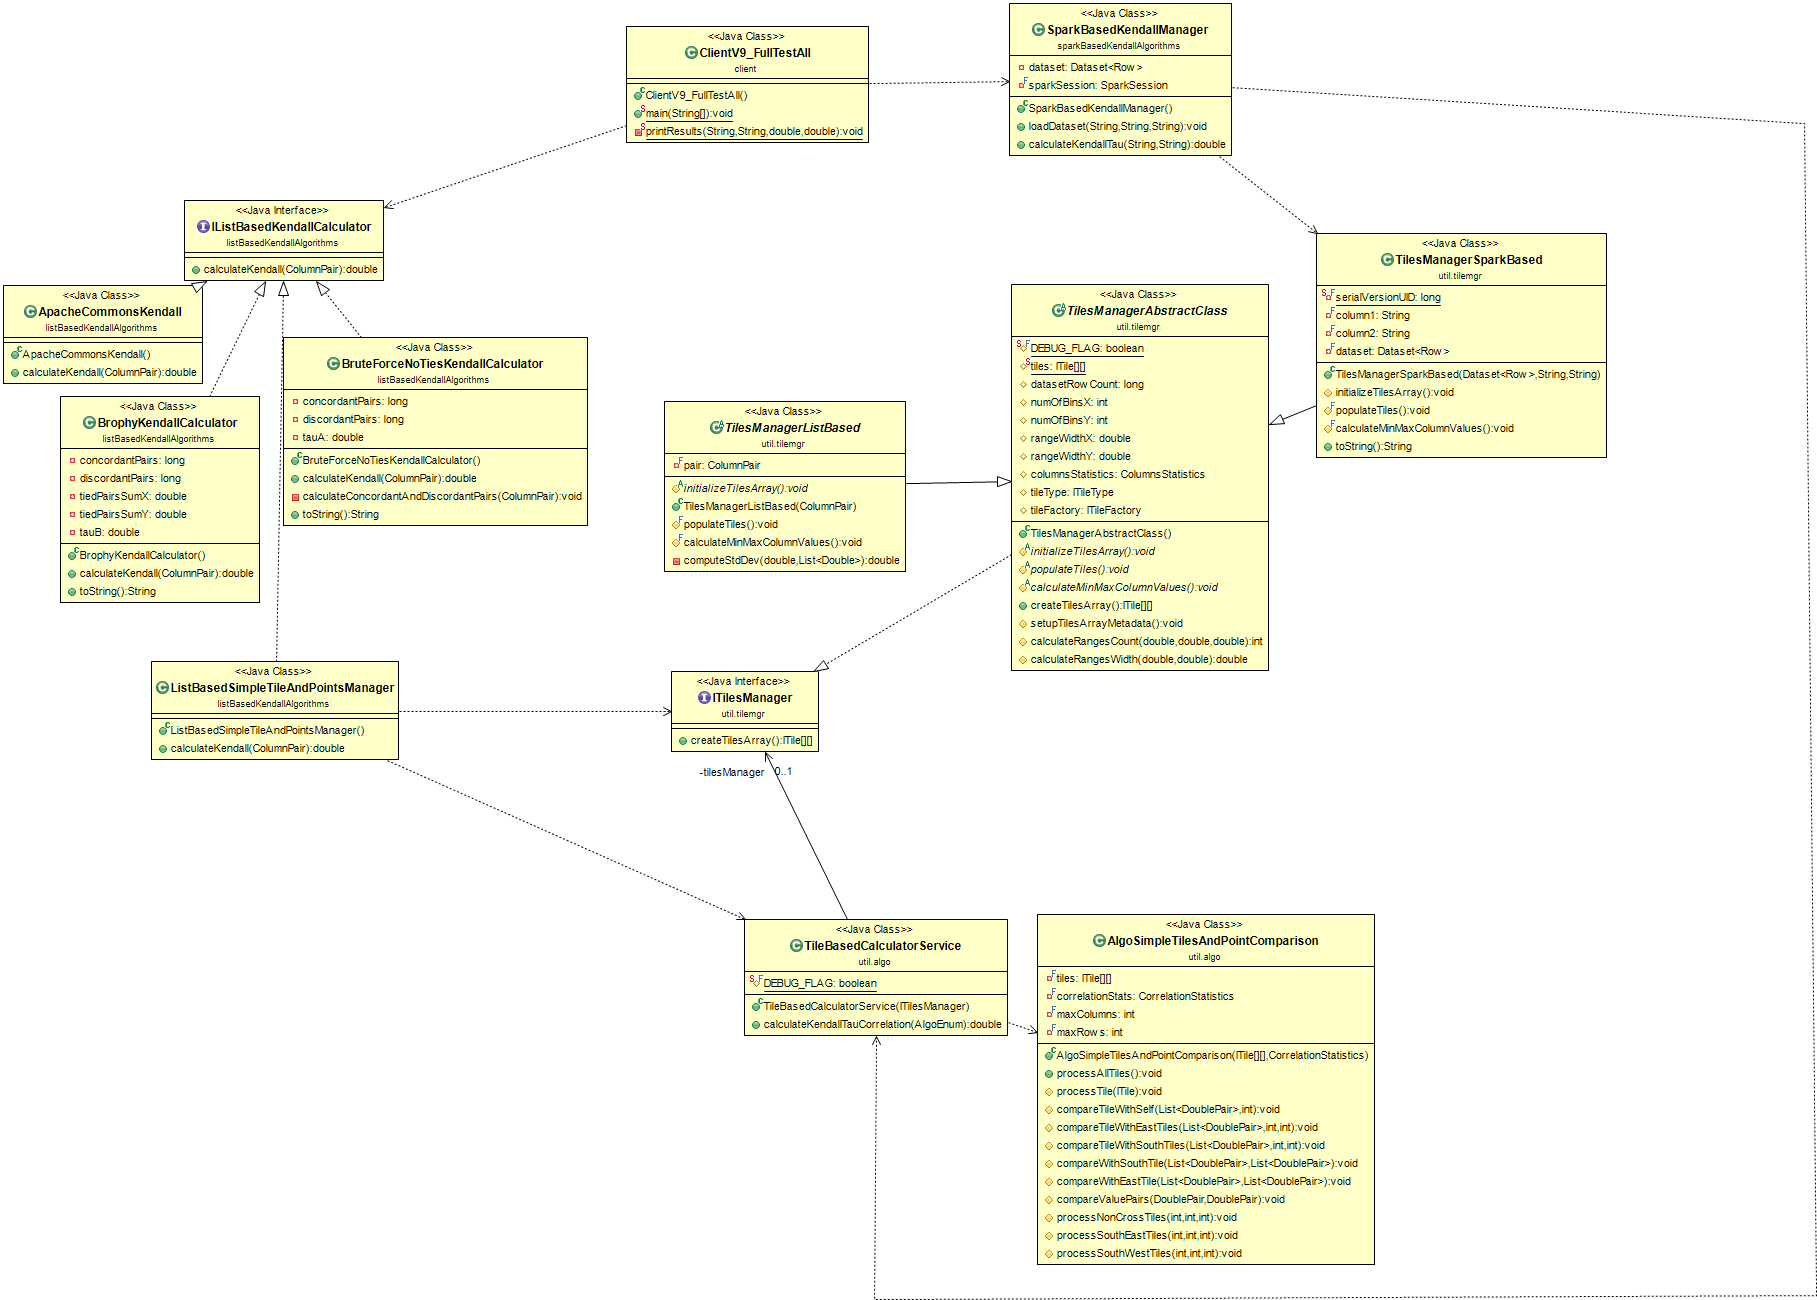
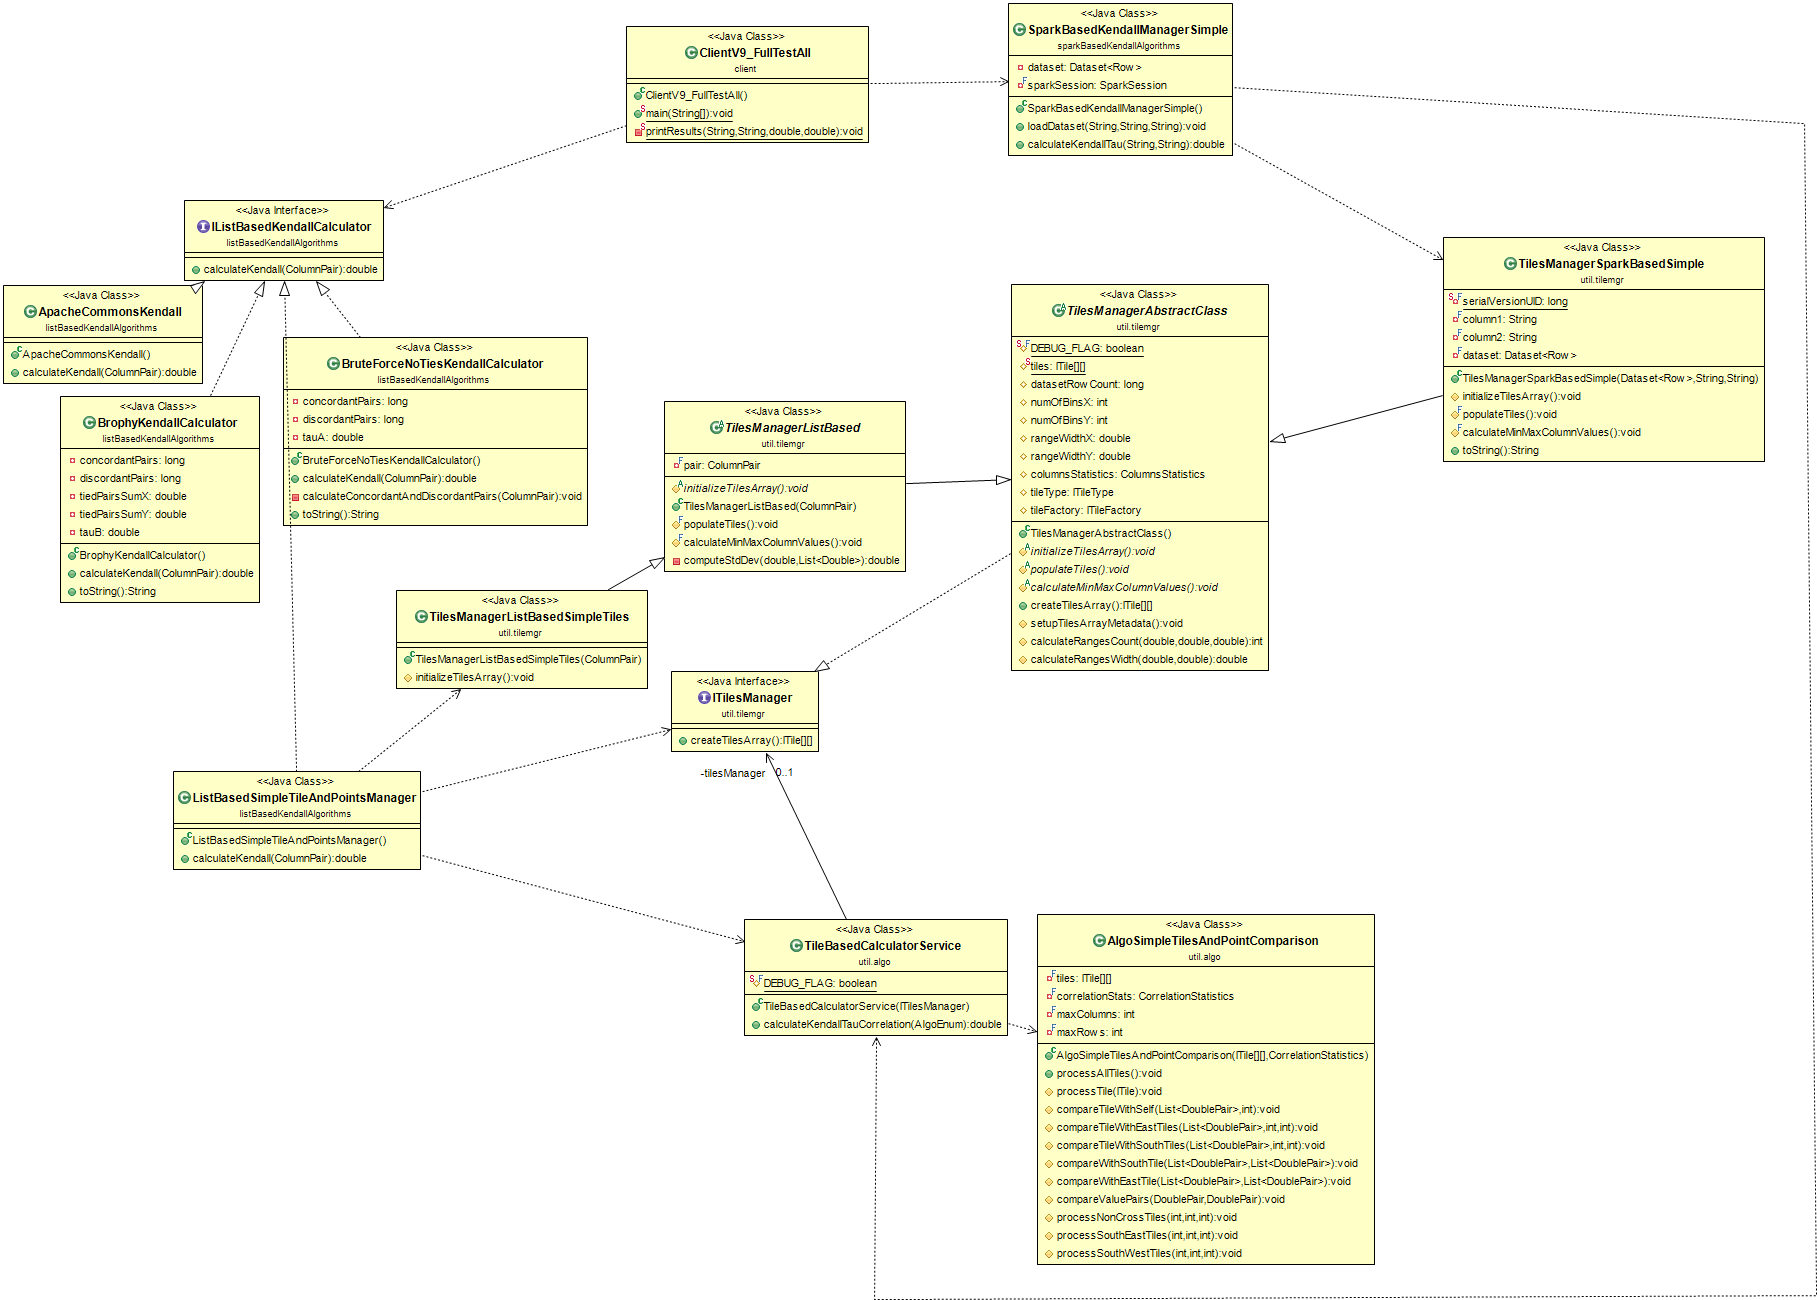
war for territory

diff --git a/src/main/java/client/ClientV1_ApacheVsSpark.java b/src/main/java/client/ClientV1_ApacheVsSpark.java
@@ -20,44 +20,53 @@ import java.util.Calendar;
 public class ClientV1_ApacheVsSpark {
     public static void main(String[] args) throws IOException, AnalysisException {
 
-        Reader reader = new Reader();
-
-        // manufacturer,model,year,price,transmission,mileage,fuelType,tax,mpg,engineSize
-        String filePath = "src\\test\\resources\\input\\cars_100k.csv";
-        String column1 = "mileage";
-        String column2 = "mpg";
+        //74001 tuples
+        String filePath = "src\\test\\resources\\input\\acs2017_census_tract_data.csv";
+        String column1 = "Hispanic";
+        String column2 = "Native";
         String delimiter = ",";
 
+        //74001 tuples
+//        String filePath = "src\\test\\resources\\input\\acs2017_census_tract_data.csv";
+//        String column1 = "Men";
+//        String column2 = "Women";
+//        String delimiter = ",";
+        
+        //108,539 tuples CARS_100K
+        // manufacturer,model,year,price,transmission,mileage,fuelType,tax,mpg,engineSize
+//        String filePath = "src\\test\\resources\\input\\cars_100k.csv";
+//        String column1 = "mileage";
+//        String column2 = "mpg";
+//        String delimiter = ",";
+        
+      //619,040 tuples
 //        String filePath = "src\\test\\resources\\input\\all_stocks_5yr.csv";
 //        String column1 = "low";
 //        String column2 = "high";
 //        String delimiter = ",";
-
+        
+        //619,040 tuples
 //        String filePath = "src\\test\\resources\\input\\all_stocks_5yr.csv";
 //        String column1 = "close";
 //        String column2 = "volume";
 //        String delimiter = ",";
 
-//        String filePath = "src\\test\\resources\\input\\flights5_7m.csv"; // 5.7 million rows
-//        String column1 = "FLIGHT_NUMBER";
-//        String column2 = "DEPARTURE_TIME";
-//        String delimiter = ",";
-
-//        String filePath = "src\\test\\resources\\input\\acs2017_census_tract_data.csv";
-//        String column1 = "Hispanic";
-//        String column2 = "Native";
-//        String delimiter = ",";
-
-//        String filePath = "src\\test\\resources\\input\\acs2017_census_tract_data.csv";
-//        String column1 = "Men";
-//        String column2 = "Women";
-//        String delimiter = ",";
-
+        //1,000,000 = 1 million tuples
 //        String filePath = "src\\test\\resources\\input\\Random1Mil.csv";
 //        String column1 = "X";
 //        String column2 = "Y";
 //        String delimiter = ",";
+        
+        //5,819,079 tuples
+//        String filePath = "src\\test\\resources\\input\\flights5_7m.csv"; // flight cancels 2015
+//        String column1 = "FLIGHT_NUMBER";
+//        String column2 = "DEPARTURE_TIME";
+//        String delimiter = ",";
 
+        // Get the Java runtime
+
+        checkMemory();
+        Reader reader = new Reader();        
         ColumnPair columnPair = reader.read(filePath, column1, column2, delimiter);
 
         long startTime = -1;
@@ -73,7 +82,7 @@ public class ClientV1_ApacheVsSpark {
         endTime = System.currentTimeMillis();
         elapsedTimeSeconds = (endTime - startTime) / 1000.0;
         printResults("Apache", filePath, apacheResult, elapsedTimeSeconds);
-
+        checkMemory();
         
         /* Tile Implementation with SPARK and valuePairs*/
 //        startTime = System.currentTimeMillis();
@@ -92,12 +101,11 @@ public class ClientV1_ApacheVsSpark {
 
         /* Tile Implementation with SPARK and stored tiles*/
         
-        /* Produces an out of memory error, as it opens one filewriter per tile.
+        /* Produces an out of memory error with many tiles (e.g., via Scott's rule)
+         * as it opens one filewriter per tile.
          * And we have thousands of tiles. 
-         * Is there any way to incrementally write each tile's tuples to a tile-dedicated file?*/
-        
-        startTime = System.currentTimeMillis();
-        
+         * If we fix the number of tiles to 100x100, it uses o(150MB) and works*/
+        startTime = System.currentTimeMillis();        
         String timeStamp = new SimpleDateFormat("yyyyMMdd_HHmmss").format(Calendar.getInstance().getTime());
         WriterSetup.OUTPUT_CUR_DIR = "try" + timeStamp + File.separator;
         System.err.println("Writing tiles at " + WriterSetup.getOutputExecDir());
@@ -113,7 +121,8 @@ public class ClientV1_ApacheVsSpark {
         endTime = System.currentTimeMillis();
         elapsedTimeSeconds = (endTime - startTime) / 1000.0;
         printResults("Spark Tiles", filePath, sparkTileKendallResult, elapsedTimeSeconds);
-
+        checkMemory();
+        
     }//end main
 
     private static void printResults(String methodName, String filePath, double kendallResult, double elapsedTimeSeconds) {
@@ -124,5 +133,22 @@ public class ClientV1_ApacheVsSpark {
         System.out.println(methodName+" elapsed time (sec):\t" + elapsedTimeSeconds + " seconds");
         System.out.println(" ----- \n");
 	}
+    
+    private static void checkMemory() {
+    	System.out.println("Calling garbageCollector");
+        Runtime runtime = Runtime.getRuntime();
+        runtime.gc();
+    	long total = runtime.totalMemory();
+    	long free = runtime.freeMemory();
+    	long usedMemory= total - free;
+        System.out.println("Used/Free/Total Memory (MB): "+ bytesToMegabytes(usedMemory) + 
+        		"\t" + bytesToMegabytes(free) + "\t" + bytesToMegabytes(total));
+    }
+    
+
+    public static long bytesToMegabytes(long bytes) {
+    	final long MEGABYTE = 1024L * 1024L;
+    	return bytes / MEGABYTE;
+    }
     
 }//end class

diff --git a/src/main/java/listBasedKendallAlgorithms/ListBasedBandsWithMemoryManager.java b/src/main/java/listBasedKendallAlgorithms/ListBasedBandsWithMemoryManager.java
@@ -1,7 +1,7 @@
 package listBasedKendallAlgorithms;
 
 import listBasedKendallAlgorithms.listBasedReader.ColumnPair;
-import util.algo.TileXBasedCalculatorService;
+import util.algo.TilesWithCountersBandsWithMemoryCalculatorService;
 import util.tilemgr.TilesManagerListBasedTilesWithCounters;
 
 public class ListBasedBandsWithMemoryManager implements IListBasedKendallCalculator{
@@ -12,7 +12,7 @@ public class ListBasedBandsWithMemoryManager implements IListBasedKendallCalcula
 		TilesManagerListBasedTilesWithCounters tilesManager = new TilesManagerListBasedTilesWithCounters(pair); 
 //		TilesManagerListBasedTilesWithCounters tilesManager = new TilesManagerListBasedTilesWithCounters(pair, 
 //				TilesManagerListBasedTilesWithCounters.RangeMakerMethodEnum.FIXED);
-        TileXBasedCalculatorService calculatorService = new TileXBasedCalculatorService(tilesManager);
+        TilesWithCountersBandsWithMemoryCalculatorService calculatorService = new TilesWithCountersBandsWithMemoryCalculatorService(tilesManager);
         return calculatorService.calculateKendallTauCorrelation();	}
 
 }

diff --git a/src/test/java/util/algo/TileXBasedCalculatorServiceTest.java b/src/test/java/util/algo/TileXBasedCalculatorServiceTest.java
@@ -59,7 +59,7 @@ public class TileXBasedCalculatorServiceTest extends SparkSessionTestSetup {
 		//TILES WITH COUNTERS
 		TilesManagerListBasedTilesWithCounters tilesManagerWithCounters = new TilesManagerListBasedTilesWithCounters(pair);
         //SERVICE WITH NEW TILES WITH MEMORY
-        TileXBasedCalculatorService service = new TileXBasedCalculatorService(tilesManagerWithCounters);
+        TilesWithCountersBandsWithMemoryCalculatorService service = new TilesWithCountersBandsWithMemoryCalculatorService(tilesManagerWithCounters);
         double actual = service.calculateKendallTauCorrelation();
 
         // Assert

diff --git a/src/main/java/util/algo/TilesWithCountersBandsWithMemoryCalculatorService.java b/src/main/java/util/algo/TilesWithCountersBandsWithMemoryCalculatorService.java
@@ -3,13 +3,13 @@ package util.algo;
 import util.tilemgr.TilesManagerListBasedTilesWithCounters;
 import util.tiles.TileWithCounters;
 
-public class TileXBasedCalculatorService {
+public class TilesWithCountersBandsWithMemoryCalculatorService {
 	protected static final boolean DEBUG_FLAG = false;
 
 	private TilesManagerListBasedTilesWithCounters tilesManager;
 
 
-	public TileXBasedCalculatorService(TilesManagerListBasedTilesWithCounters tilesManager) {
+	public TilesWithCountersBandsWithMemoryCalculatorService(TilesManagerListBasedTilesWithCounters tilesManager) {
 		this.tilesManager = tilesManager;
 	}
 

diff --git a/src/main/java/util/tilemgr/TilesManagerListBasedAbstractClass.java b/src/main/java/util/tilemgr/TilesManagerListBasedAbstractClass.java
@@ -7,13 +7,13 @@ import listBasedKendallAlgorithms.listBasedReader.ColumnPair;
 import util.common.ColumnsStatistics;
 import util.common.DoublePair;
 
-public abstract class TilesManagerListBased extends TilesManagerAbstractClass  {
+public abstract class TilesManagerListBasedAbstractClass extends TilesManagerAbstractClass  {
     
     private final ColumnPair pair;
 
     protected abstract void initializeTilesArray();
     
-    public TilesManagerListBased(ColumnPair pair) {
+    public TilesManagerListBasedAbstractClass(ColumnPair pair) {
         this.pair = pair;
     }
 

diff --git a/src/main/java/util/tilemgr/TilesManagerSparkBased.java b/src/main/java/util/tilemgr/TilesManagerSparkBased.java
@@ -106,8 +106,8 @@ public class TilesManagerSparkBased implements Serializable {
 		//obviously deserves better.
 		//Constructor should get a hashmap of strings with various parameters and move on.
 			case FIXED: 
-				final int BINS_X = 10;
-				final int BINS_Y = 10;
+				final int BINS_X = 100;
+				final int BINS_Y = 100;
 				rangeMaker = factory.makeRangeMakerFixedNumBins(columnsStatistics, BINS_X, BINS_Y);
 				break;
 			default://implies SCOTT too

diff --git a/src/main/java/util/tilemgr/TilesManagerListBasedSimpleTiles.java b/src/main/java/util/tilemgr/TilesManagerListBasedSimpleTiles.java
@@ -5,7 +5,7 @@ import util.tiles.ITile;
 import util.tiles.ITileFactory;
 import util.tiles.ITileType;
 
-public class TilesManagerListBasedSimpleTiles extends TilesManagerListBased {
+public class TilesManagerListBasedSimpleTiles extends TilesManagerListBasedAbstractClass {
 	
 	public TilesManagerListBasedSimpleTiles(ColumnPair pair) {
 		super(pair);

diff --git a/src/main/java/util/algo/TileStoredBasedCalculatorService.java b/src/main/java/util/algo/TileStoredBasedCalculatorService.java
@@ -5,7 +5,7 @@ import util.tilemgr.TilesManagerSparkBased;
 import util.tiles.TileStored;
 
 public class TileStoredBasedCalculatorService {
-	protected static final boolean DEBUG_FLAG = false;
+	protected static final boolean DEBUG_FLAG = true;
 
 	private TilesManagerSparkBased tilesManager;
 

diff --git a/src/main/java/util/tiles/ITileFactory.java b/src/main/java/util/tiles/ITileFactory.java
@@ -7,6 +7,8 @@ public class ITileFactory {
 				return new TileSimple(row, column);
 			case WITH_COUNTER_MAPS:
 				 return new TileWithCounters(row, column);
+			case STORED_SIMPLE: 
+				return new TileStored(row, column);
 			default: return new TileSimple(row, column);
 		}
 	}

diff --git a/src/main/java/util/tiles/ITileType.java b/src/main/java/util/tiles/ITileType.java
@@ -1,5 +1,5 @@
 package util.tiles;
 
 public enum ITileType{
-	SIMPLE, WITH_COUNTER_MAPS
+	SIMPLE, WITH_COUNTER_MAPS, STORED_SIMPLE
 }
